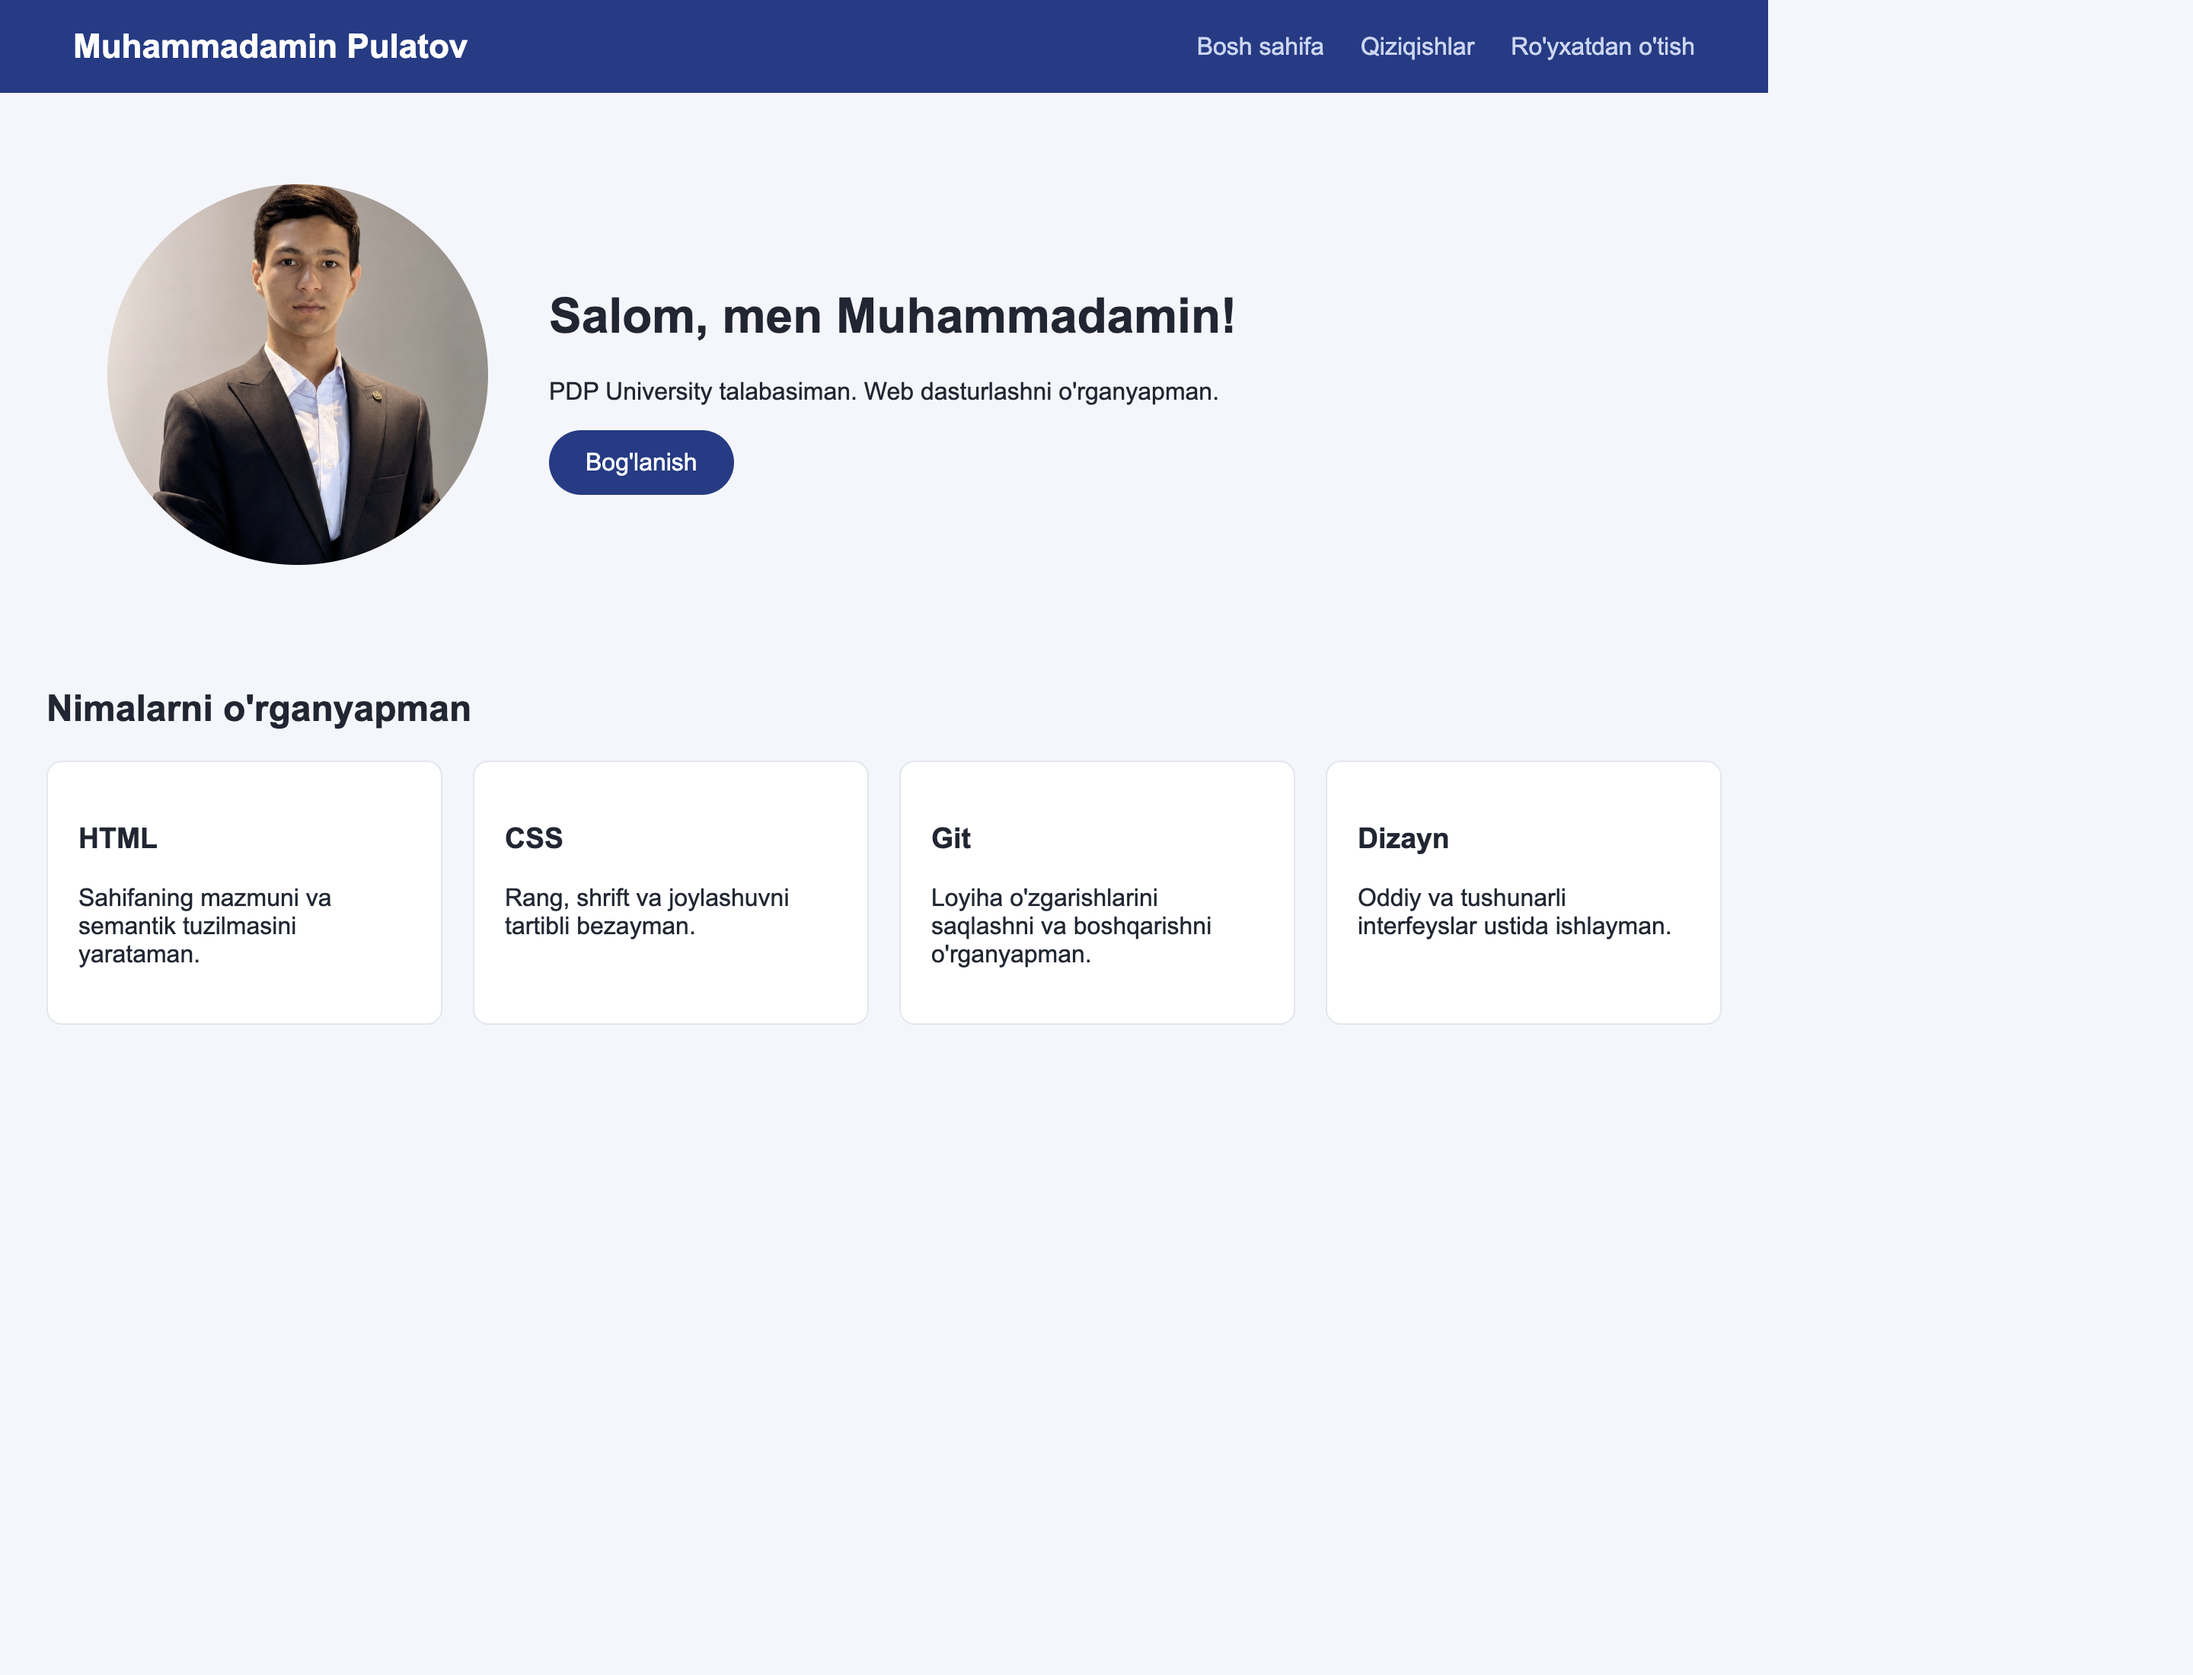
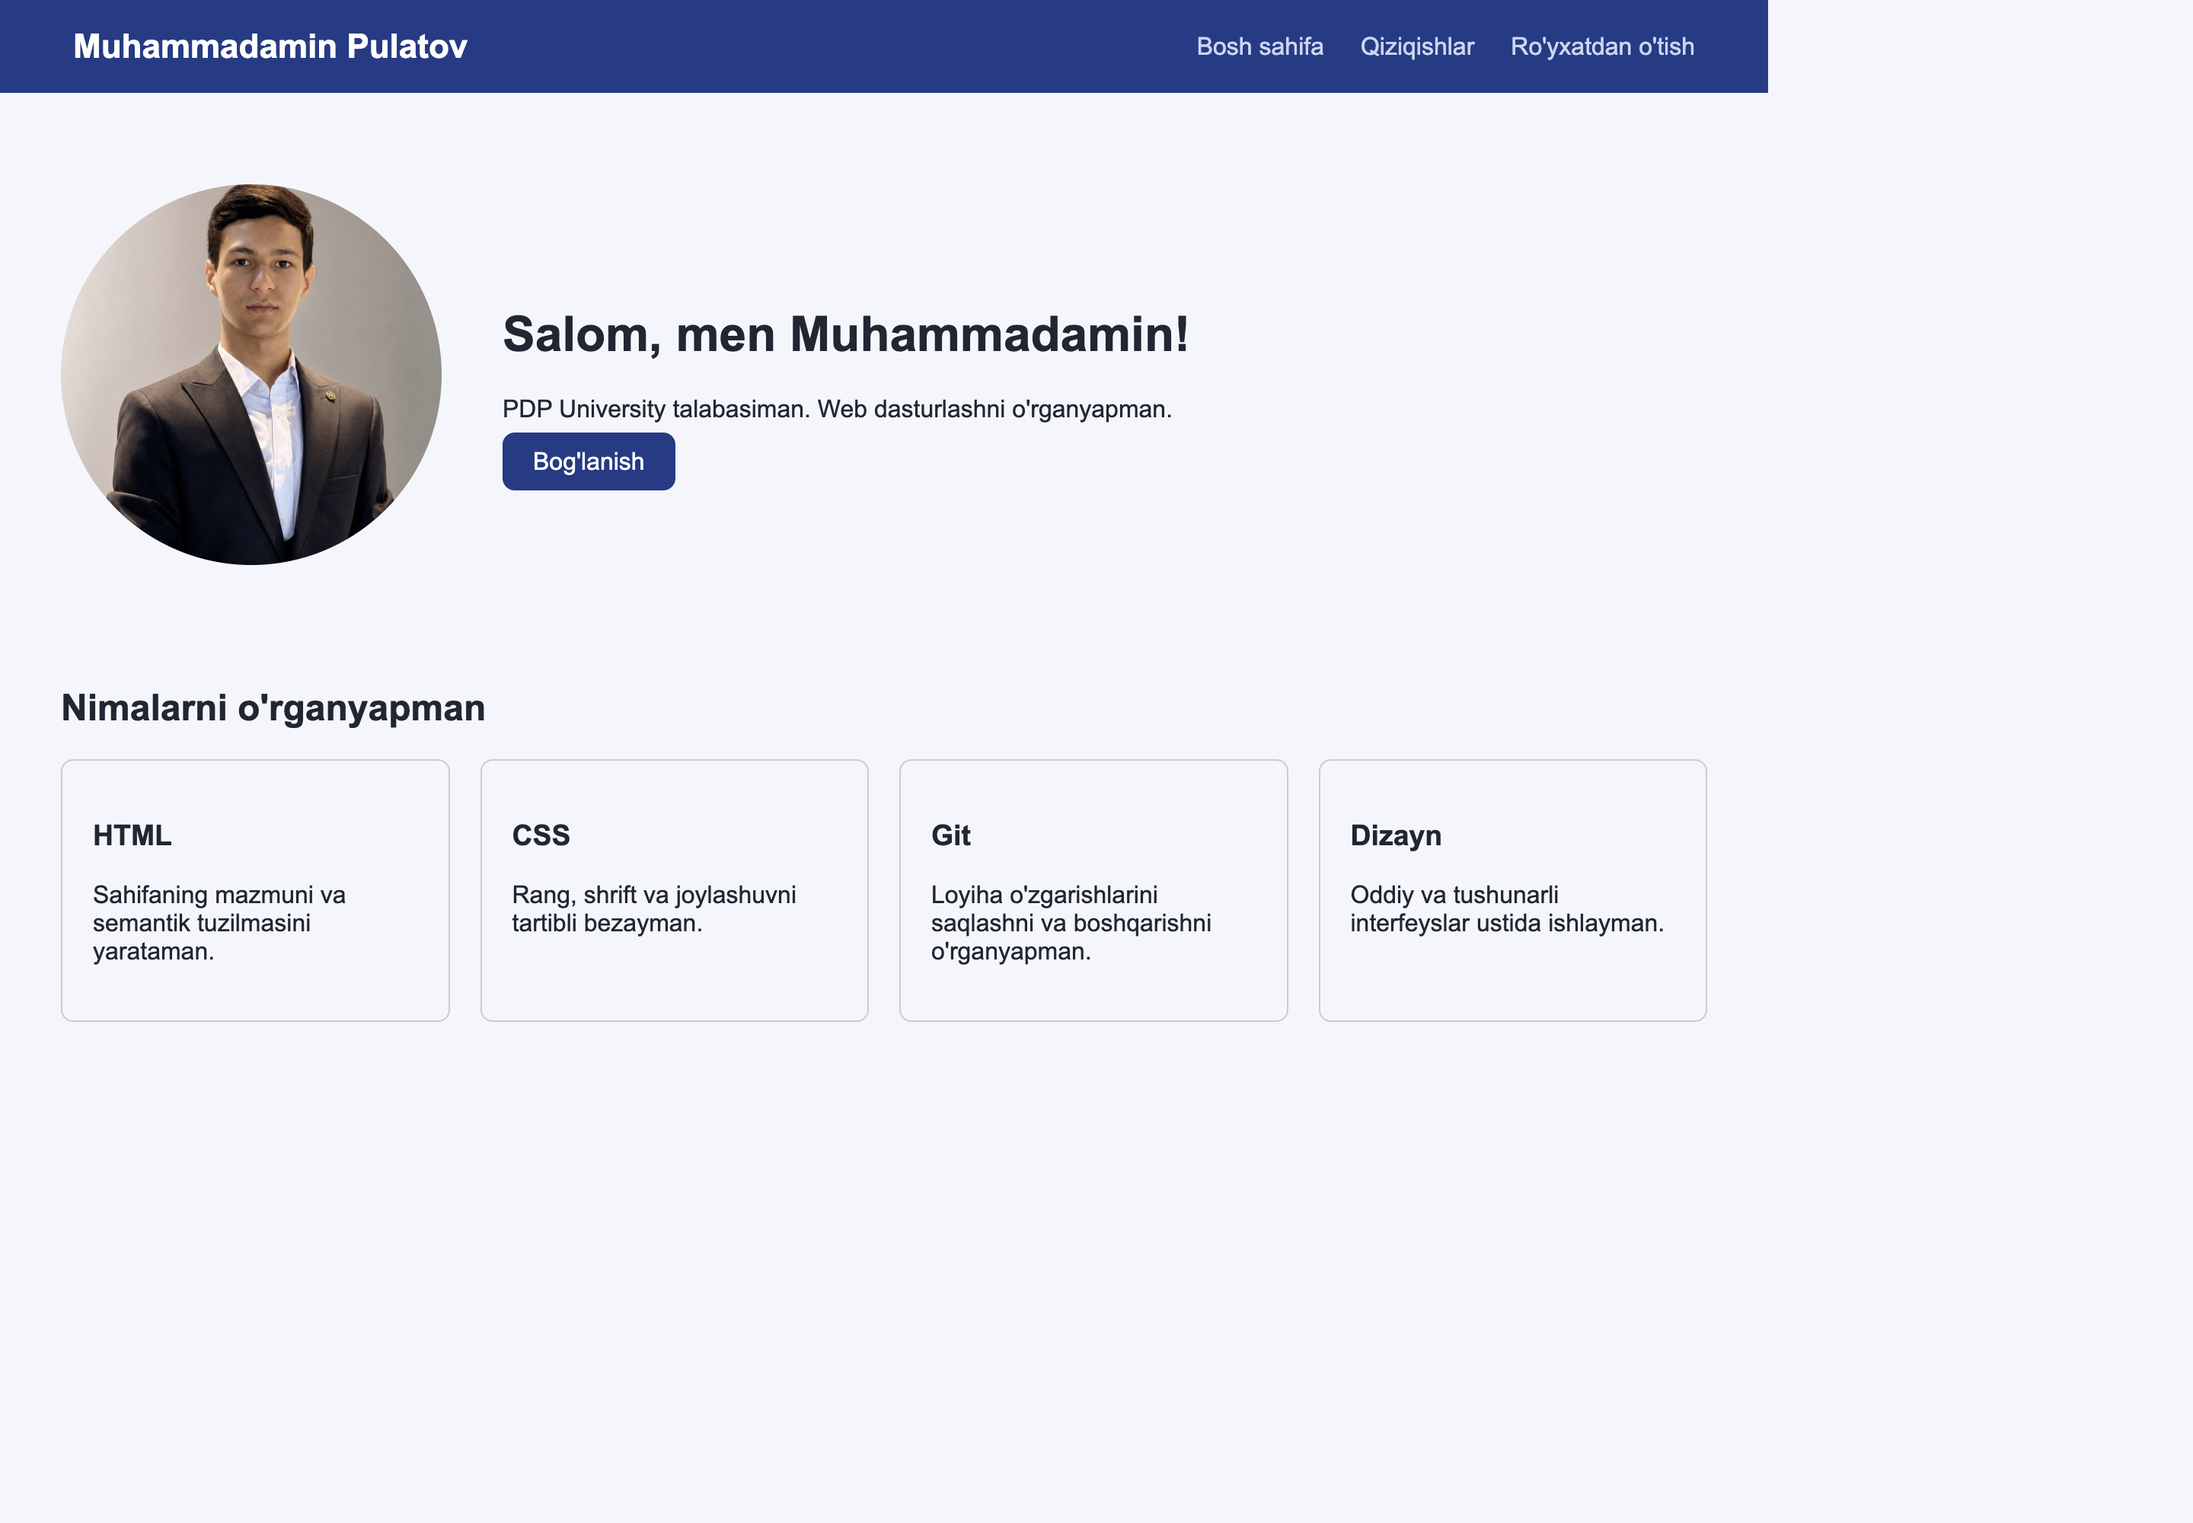
09-flexbox-homepage: match lesson CSS

diff --git a/students/muhammadamin-pulatov/FlexBox/css/style.css b/students/muhammadamin-pulatov/FlexBox/css/style.css
@@ -3,24 +3,18 @@
 }
 
 body {
-  min-height: 100vh;
   margin: 0;
-  display: flex;
-  flex-direction: column;
   background: #f4f6fb;
   color: #202633;
-  font: 16px Arial, sans-serif;
+  font-family: Arial, sans-serif;
 }
 
-.navbar,
-.footer {
+.navbar {
   display: flex;
-  align-items: center;
   justify-content: space-between;
-  gap: 24px;
+  align-items: center;
   padding: 18px 48px;
   background: #1f3c88;
-  color: white;
 }
 
 .logo {
@@ -46,14 +40,8 @@ body {
 }
 
 .menu a:hover {
-  border-bottom-color: #2ec4b6;
   color: white;
-}
-
-.container {
-  width: min(1100px, calc(100% - 48px));
-  margin: 0 auto;
-  flex: 1;
+  border-bottom-color: #2ec4b6;
 }
 
 .hero {
@@ -66,31 +54,24 @@ body {
 .hero-img {
   width: 250px;
   height: 250px;
-  border-radius: 50%;
   object-fit: cover;
+  border-radius: 50%;
 }
 
 .hero-text {
   flex: 1;
 }
 
-h1,
-h2,
-h3 {
-  line-height: 1.2;
-}
-
 .btn {
-  display: inline-block;
-  padding: 12px 24px;
-  border-radius: 999px;
+  padding: 10px 20px;
+  border-radius: 8px;
   background: #1f3c88;
   color: white;
   text-decoration: none;
 }
 
 .skills {
-  padding-bottom: 60px;
+  padding: 0 40px 60px;
 }
 
 .cards {
@@ -100,46 +81,19 @@ h3 {
 }
 
 .card {
+  flex: 1;
   min-width: 200px;
-  flex: 1;
   padding: 20px;
-  border: 1px solid #e1e6ef;
-  border-radius: 10px;
-  background: white;
+  border: 1px solid #ccc;
+  border-radius: 8px;
 }
 
-.page {
-  padding: 40px 0;
-}
-
-.contact {
+.footer {
   display: flex;
-  gap: 40px;
-}
-
-.contact-info,
-.form {
-  flex: 1;
-}
-
-.form {
-  display: flex;
-  flex-direction: column;
-  gap: 10px;
-}
-
-.form input,
-.form select {
-  padding: 8px;
-  border: 1px solid #c8d0df;
-  border-radius: 6px;
-  font: inherit;
-}
-
-.form .btn {
-  align-self: flex-start;
-  border: 0;
-  cursor: pointer;
+  justify-content: space-between;
+  padding: 18px 48px;
+  background: #1f3c88;
+  color: white;
 }
 
 .footer p {
@@ -147,38 +101,5 @@ h3 {
 }
 
 .footer a {
-  color: #c9d6f5;
-  text-decoration: none;
-}
-
-@media (max-width: 720px) {
-  .navbar,
-  .footer,
-  .hero,
-  .contact {
-    flex-direction: column;
-    align-items: flex-start;
-  }
-
-  .navbar,
-  .footer {
-    padding: 18px 24px;
-  }
-
-  .menu {
-    flex-wrap: wrap;
-    gap: 12px 20px;
-  }
-
-  .hero {
-    padding: 48px 0;
-  }
-
-  .hero-img {
-    align-self: center;
-  }
-
-  .card {
-    min-width: 100%;
-  }
+  color: white;
 }

diff --git a/students/muhammadamin-pulatov/FlexBox/index.html b/students/muhammadamin-pulatov/FlexBox/index.html
@@ -19,7 +19,7 @@
     </nav>
   </header>
 
-  <main class="container">
+  <main>
     <section class="hero">
       <img class="hero-img" src="images/portrait.jpg" alt="Muhammadamin Pulatov surati">
       <div class="hero-text">
@@ -32,22 +32,22 @@
     <section class="skills">
       <h2>Nimalarni o'rganyapman</h2>
       <div class="cards">
-        <article class="card">
+        <div class="card">
           <h3>HTML</h3>
           <p>Sahifaning mazmuni va semantik tuzilmasini yarataman.</p>
-        </article>
-        <article class="card">
+        </div>
+        <div class="card">
           <h3>CSS</h3>
           <p>Rang, shrift va joylashuvni tartibli bezayman.</p>
-        </article>
-        <article class="card">
+        </div>
+        <div class="card">
           <h3>Git</h3>
           <p>Loyiha o'zgarishlarini saqlashni va boshqarishni o'rganyapman.</p>
-        </article>
-        <article class="card">
+        </div>
+        <div class="card">
           <h3>Dizayn</h3>
           <p>Oddiy va tushunarli interfeyslar ustida ishlayman.</p>
-        </article>
+        </div>
       </div>
     </section>
   </main>

diff --git a/students/muhammadamin-pulatov/FlexBox/pages/register.html b/students/muhammadamin-pulatov/FlexBox/pages/register.html
@@ -19,14 +19,14 @@
     </nav>
   </header>
 
-  <main class="container page">
-    <section class="contact">
-      <div class="contact-info">
+  <main>
+    <section>
+      <div>
         <h1>Bog'lanib turamiz</h1>
         <p>Loyiha, o'qish yoki hamkorlik haqida yozishingiz mumkin.</p>
-        <p class="contact-email"><a href="mailto:portfolio@example.com">portfolio@example.com</a></p>
+        <p><a href="mailto:portfolio@example.com">portfolio@example.com</a></p>
       </div>
-      <form class="card form">
+      <form>
         <h2>Ro'yxatdan o'tish</h2>
         <p>Namuna forma. Yuborish uchun server ulanmagan.</p>
         <label for="name">Ismingiz</label>

diff --git a/students/muhammadamin-pulatov/FlexBox/pages/qiziqishlar.html b/students/muhammadamin-pulatov/FlexBox/pages/qiziqishlar.html
@@ -19,7 +19,7 @@
     </nav>
   </header>
 
-  <main class="container page">
+  <main>
     <section>
       <h1>Qiziqishlarim</h1>
       <p>Yangi narsalarni o'rganish va amalda sinab ko'rish menga yoqadi.</p>
